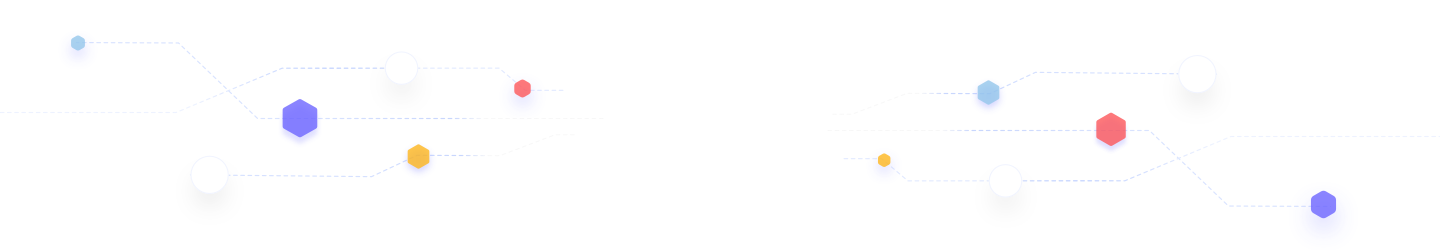
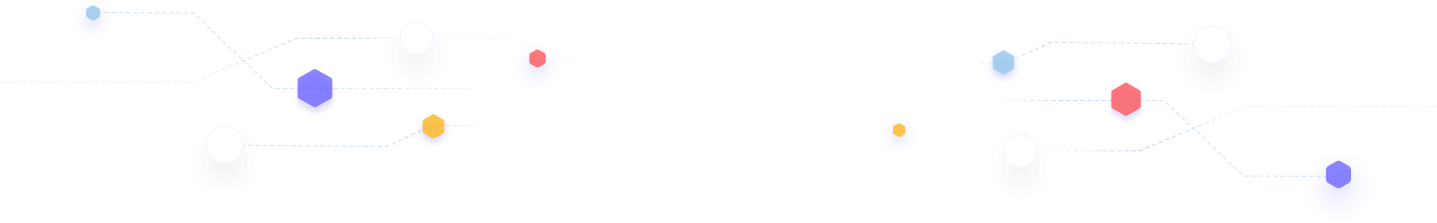
fix(header): fix header background

diff --git a/src/components/layout/Jumbo.vue b/src/components/layout/Jumbo.vue
@@ -1,10 +1,13 @@
 <template>
   <s-layout
     hero
-    :class="['jumbo', { [`is-${size}`]: size }, {'has-background': background}, {'has-background-large': backgroundLarge}]"
+    :class="['jumbo', { [`is-${size}`]: size }, {'has-background': background}, {'has-background-large': backgroundLarge}, {'has-background-dark-blue': dark}]"
   >
     <template slot="head">
-      <slot name="header" />
+      <slot
+        name="header"
+        :dark="dark"
+      />
     </template>
     <template slot="body">
       <s-div
@@ -13,7 +16,7 @@
       >
         <s-text
           highlight
-          color="gray-2"
+          :color="dark ? 'white' : 'gray-2'"
           alignment="centered"
         >
           <template v-if="$slots.small">
@@ -31,6 +34,7 @@
         <s-text
           head="1"
           alignment="centered"
+          :color="dark ? 'white' : undefined"
           :class="{[`into-${into}`]: into }"
         >
           <span v-if="into" />
@@ -82,13 +86,6 @@ export default {
       default: undefined,
       validator: v => ['bracket', 'chevron', 'hash', 'slash'].includes(v)
     },
-    /**
-     * Sets the stars background
-     */
-    stars: {
-      type: Boolean,
-      default: true
-    },
     size: {
       type: String,
       default: undefined,
@@ -99,6 +96,10 @@ export default {
       default: false
     },
     backgroundLarge: {
+      type: Boolean,
+      default: false
+    },
+    dark: {
       type: Boolean,
       default: false
     }
@@ -114,9 +115,12 @@ export default {
   size="fullheight"
   small="developer marketplace runtime"
   background
+  dark
 >
   <s-navbar
     slot="header"
+    slot-scope="{ dark }"
+    :dark="dark"
     :items="[{ name: 'Blog' }, { name: 'Documentation' }]"
   />
   <template slot="title">Storyscript amplifies <br /> the developer</template>

diff --git a/src/scss/custom/_layouts.scss b/src/scss/custom/_layouts.scss
@@ -97,7 +97,7 @@ $value in $paddings {
   &.has-background,
   &.has-background-large {
     background-repeat: no-repeat;
-    background-size: auto 250px;
+    background-size: contain;
   }
 
   &.has-background {
